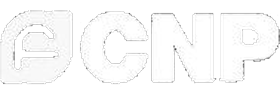
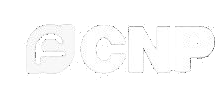
Fix partners quality, local map, mono MAX, experience crop
- Re-extract partner logos full-frame transparent PNG (no crop canvas)
- Serve map as local static image so GitHub Pages always shows it
- MAX icon monochrome grayscale
- Experience image 1920px wide, min-width 1280, cover crop 470px

diff --git a/index.html b/index.html
@@ -146,12 +146,12 @@
         <p class="section__lead">Гарантируем оригинальность продукции и высокие стандарты качества.<br>Благодаря прямым контрактам с производителями, наши ценовые предложения<br>остаются оптимальными на рынке.</p>
 
         <div class="partners__grid">
-          <div class="partner-card"><img src="assets/img/partner-eltex.png" alt="ELTEX" loading="lazy" width="280" height="100"></div>
-          <div class="partner-card"><img src="assets/img/partner-cnp.png" alt="CNP" loading="lazy" width="280" height="100"></div>
-          <div class="partner-card"><img src="assets/img/partner-aikon.png" alt="aikon" loading="lazy" width="280" height="100"></div>
-          <div class="partner-card"><img src="assets/img/partner-energocable.png" alt="АО Завод Энергокабель" loading="lazy" width="280" height="100"></div>
-          <div class="partner-card"><img src="assets/img/partner-paritet.png" alt="Паритет Кабельный завод" loading="lazy" width="280" height="100"></div>
-          <div class="partner-card"><img src="assets/img/partner-ostec.png" alt="OSTEC система инженерных трасс" loading="lazy" width="280" height="100"></div>
+          <div class="partner-card"><img src="assets/img/partner-eltex.png" alt="ELTEX" loading="lazy"></div>
+          <div class="partner-card"><img src="assets/img/partner-cnp.png" alt="CNP" loading="lazy"></div>
+          <div class="partner-card"><img src="assets/img/partner-aikon.png" alt="aikon" loading="lazy"></div>
+          <div class="partner-card"><img src="assets/img/partner-energocable.png" alt="АО Завод Энергокабель" loading="lazy"></div>
+          <div class="partner-card"><img src="assets/img/partner-paritet.png" alt="Паритет Кабельный завод" loading="lazy"></div>
+          <div class="partner-card"><img src="assets/img/partner-ostec.png" alt="OSTEC система инженерных трасс" loading="lazy"></div>
         </div>
       </div>
     </section>
@@ -204,7 +204,7 @@
         <p class="section__lead">В «Интекс-Электро» мы не просто комплектуем объекты — мы понимаем, как они работают.<br>Наши специалисты — это инженеры с опытом реализации крупных инфраструктурных задач.</p>
       </div>
       <div class="experience__photo">
-        <img src="assets/img/experience.jpg" alt="Инженер с планшетом у электрощита" loading="lazy" width="1600" height="1067">
+        <img src="assets/img/experience.jpg" alt="Инженер с планшетом у электрощита" loading="lazy" width="1920" height="1280">
       </div>
     </section>
 
@@ -244,27 +244,30 @@
       </div>
 
       <!--
-        Yandex Static API.
-        Coordinates: ул. Ясная, 31, Екатеринбург ≈ lon 60.577, lat 56.809
-        Key is public in client HTML — restrict by HTTP Referer in Yandex Cloud Console.
+        Local static map (always works on GitHub Pages).
+        Click opens Yandex Maps. Interactive iframe fallback available below.
+        Coords: ул. Ясная, 31, Екатеринбург ≈ lon 60.577, lat 56.809
       -->
       <div class="contacts__map">
         <a
           class="contacts__map-link"
-          href="https://yandex.ru/maps/?pt=60.577,56.809&z=16&l=map"
+          href="https://yandex.ru/maps/?pt=60.577,56.809&z=16&l=map&text=%D0%AF%D1%81%D0%BD%D0%B0%D1%8F%20%D1%83%D0%BB%D0%B8%D1%86%D0%B0%2C%2031"
           target="_blank"
           rel="noopener noreferrer"
           aria-label="Открыть адрес на Яндекс.Картах: Ясная улица, 31"
         >
           <img
             class="contacts__map-img"
-            src="https://static-maps.yandex.ru/v1?ll=60.577%2C56.809&z=15&size=1280%2C470&pt=60.577%2C56.809%2Cpm2rdm&lang=ru_RU&apikey=6c8b5e1b-e970-4665-80ed-d31c0f31c2a2"
+            src="assets/img/map.jpg"
             alt="Карта: Ясная улица, 31, Екатеринбург"
             width="1280"
-            height="470"
+            height="886"
             loading="lazy"
-            referrerpolicy="no-referrer-when-downgrade"
           >
+          <span class="contacts__map-pin" aria-hidden="true">
+            <span class="contacts__map-pin-dot"></span>
+            <span class="contacts__map-pin-label">Ясная улица, 31</span>
+          </span>
         </a>
       </div>
     </section>

diff --git a/css/styles.css b/css/styles.css
@@ -176,13 +176,15 @@ input {
   flex-shrink: 0;
   border-radius: 10px;
   overflow: hidden;
-  transition: transform var(--transition), opacity var(--transition);
+  transition: transform var(--transition), opacity var(--transition), filter var(--transition);
 }
 
 .header__social img {
   width: 28px;
   height: 28px;
   object-fit: contain;
+  /* monochrome fallback if color SVG is used */
+  filter: grayscale(1) contrast(1.05);
 }
 
 .header__social:hover {
@@ -477,10 +479,11 @@ input {
 }
 
 .partner-card {
-  display: grid;
-  place-items: center;
-  min-height: 148px;
-  padding: 28px 24px;
+  display: flex;
+  align-items: center;
+  justify-content: center;
+  min-height: 160px;
+  padding: 32px 28px;
   background: var(--bg-card);
   border: 1px solid var(--border);
   transition: border-color var(--transition), background var(--transition);
@@ -491,11 +494,13 @@ input {
   background: var(--bg-card-hover);
 }
 
-/* Equal visual height for all logos (transparent PNG) */
+/* Full logo visible, equal visual weight, no crop */
 .partner-card img {
-  width: 100%;
-  max-width: 240px;
-  height: 72px;
+  display: block;
+  width: auto;
+  height: auto;
+  max-width: min(100%, 260px);
+  max-height: 88px;
   object-fit: contain;
   object-position: center;
 }
@@ -595,14 +600,18 @@ input {
   width: 100%;
   height: 470px;
   overflow: hidden;
+  background: #0a0a0a;
 }
 
+/* Full-bleed crop; source ≥1280px wide, centered if viewport narrower */
 .experience__photo img {
+  display: block;
   width: 100%;
+  min-width: 1280px;
   height: 470px;
   object-fit: cover;
-  object-position: center;
-  display: block;
+  object-position: center center;
+  margin-inline: auto;
 }
 
 /* ===== Contacts ===== */
@@ -657,6 +666,7 @@ input {
   display: block;
   width: 100%;
   height: 100%;
+  position: relative;
 }
 
 .contacts__map-img {
@@ -665,12 +675,53 @@ input {
   object-fit: cover;
   object-position: center;
   display: block;
-  filter: grayscale(0.85) brightness(0.72) contrast(1.05);
+  filter: grayscale(0.75) brightness(0.7) contrast(1.05);
   transition: filter var(--transition);
 }
 
 .contacts__map-link:hover .contacts__map-img {
-  filter: grayscale(0.4) brightness(0.8) contrast(1.05);
+  filter: grayscale(0.35) brightness(0.82) contrast(1.05);
+}
+
+.contacts__map-pin {
+  position: absolute;
+  top: 50%;
+  left: 50%;
+  transform: translate(-50%, -100%);
+  display: flex;
+  flex-direction: column;
+  align-items: center;
+  gap: 8px;
+  pointer-events: none;
+}
+
+.contacts__map-pin-dot {
+  width: 18px;
+  height: 18px;
+  border-radius: 50% 50% 50% 0;
+  transform: rotate(-45deg);
+  background: var(--gold);
+  box-shadow: 0 4px 14px rgba(0, 0, 0, 0.45);
+  border: 2px solid #fff;
+}
+
+.contacts__map-pin-label {
+  padding: 6px 12px;
+  border-radius: 4px;
+  background: #fff;
+  color: #111;
+  font-size: 12px;
+  font-weight: 600;
+  white-space: nowrap;
+  box-shadow: 0 4px 16px rgba(0, 0, 0, 0.3);
+}
+
+.contacts__map-frame {
+  display: block;
+  width: 100%;
+  height: 470px;
+  border: 0;
+  filter: grayscale(0.7) brightness(0.75) contrast(1.05);
 }
 
 /* ===== Footer ===== */
@@ -826,8 +877,13 @@ input {
   .experience__photo,
   .experience__photo img,
   .contacts__map,
-  .contacts__map-img {
+  .contacts__map-img,
+  .contacts__map-frame {
     height: 280px;
+  }
+
+  .experience__photo img {
+    min-width: 100%;
   }
 
   .hero {
@@ -840,5 +896,14 @@ input {
 
   .hero__title {
     font-size: clamp(34px, 10vw, 48px);
+  }
+
+  .partner-card {
+    min-height: 140px;
+    padding: 24px 20px;
+  }
+
+  .partner-card img {
+    max-height: 72px;
   }
 }
